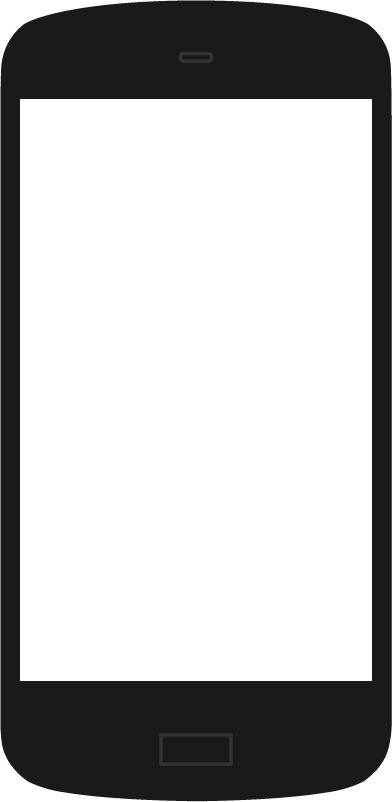
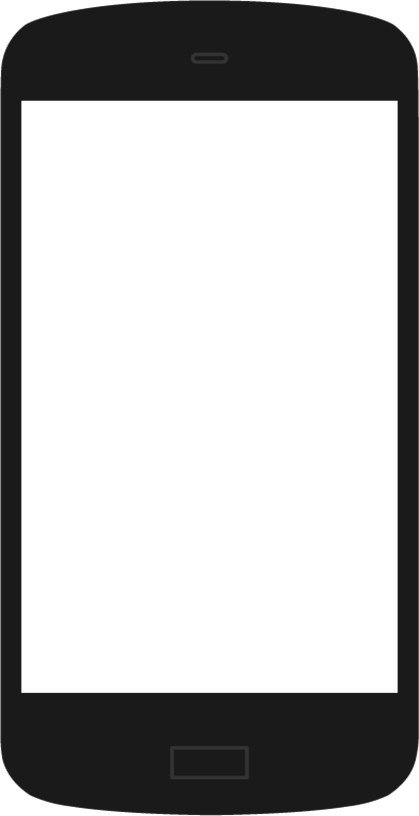
Resizing mobile-frame.png to fit iframe content.

Changed region(s): [[0.0306, 0.1247, 0.0612, 0.8416], [0.9796, 0.0623, 1.0, 0.0935]]

diff --git a/template/user/themes.html b/template/user/themes.html
@@ -7,16 +7,6 @@
     </div>
     <!-- THEME PICKER -->
     <div id="theme-picker-wrapper" class="span5">
-      <div class="sidebar row">
-        <div class="page-tools">
-          <p>Preview one of our finely crafted mobile websites! Using the viewer to the left, you can interact with your site and get an idea for how it will look and behve on an actual smartphone.</p>
-          <p>Once you've chosen a theme you like, click "Apply" to save your changes.</p>
-          <div class="btn-group-tools">
-            <a href="#prevpub-pane" class="btn-flat green sidebar do-save-page do-next"><i class="icon-arrow-right icon-white"></i>&nbsp;&nbsp;Save &amp; Next: Preview &amp; Publish</a>
-          </div><!-- /btn-group-tools -->
-        </div><!-- /page-tools -->
-      </div><!--/sidebar -->
-
       <ul id="theme-picker" class="thumbnails">
         <li class="span2 active">
           <img src="http://placehold.it/190"/>

diff --git a/_attachments/css/template_create.css b/_attachments/css/template_create.css
@@ -535,8 +535,8 @@
       #emulator-view-0,
       #emulator-view-1 {
         position:relative;
-        top: 165px;
-        left:45px;
+        top: 98px;
+        left:20px;
         width: 395px;
         height: 592px;
       }
